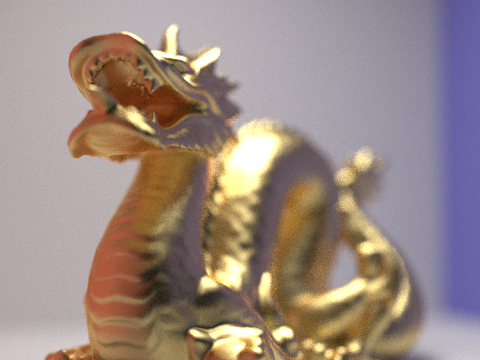
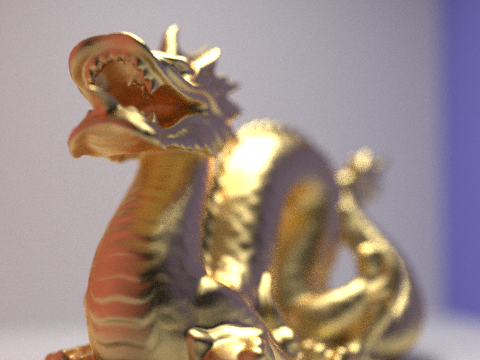
more images

diff --git a/python/lightfield.py b/python/lightfield.py
@@ -30,7 +30,7 @@ class LightField:
         return side_by_side
 
     def get_pos(self, i):
-        middle = np.array([self.n/2 - 1, self.n/2 - 1])
+        middle = np.array([self.n/2, self.n/2])
         pos = np.array([i % self.n, i / self.n]) - middle
         return pos
         # if pos[1] > pos[0]:
@@ -67,15 +67,9 @@ class LightField:
 
 if __name__ == '__main__':
     from matplotlib import pyplot as plt
-    lf = LightField("images/dragon", 3, 480, 360)
-    plt.figure()
-    plt.imshow(lf.get_refocused(0.1))
-    plt.figure()
-    plt.imshow(lf.get_refocused(0.2))
-    plt.figure()
-    plt.imshow(lf.get_refocused(0.3))
-    plt.figure()
-    plt.imshow(lf.get_refocused(0.4))
+    lf = LightField("images/dragon3", 3, 480, 360)
     plt.figure()
     plt.imshow(lf.get_refocused(0.5))
+    plt.figure()
+    plt.imshow(lf.get_refocused(-0.5))
     plt.show()
